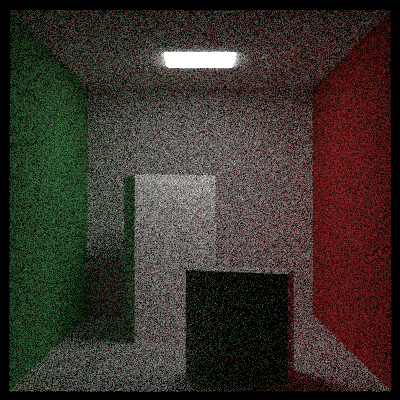
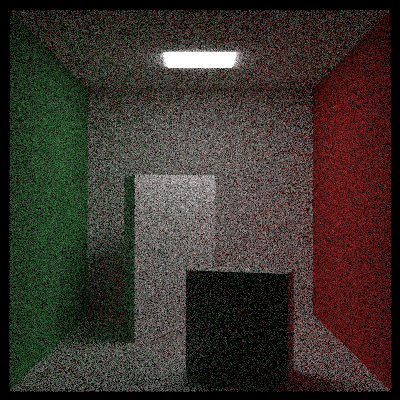
a thick fog sets in Inaba

diff --git a/examples/final_scene.rs b/examples/final_scene.rs
@@ -1,0 +1,118 @@
+use path_tracer::*;
+use path_tracer::material::*;
+use path_tracer::hittable::*;
+use rand::{Rng, thread_rng, distributions::Uniform, distributions::Distribution};
+
+const WIDTH: u32 = 600;
+const HEIGHT: u32 = 600;
+const SAMPLES: u64 = 100;
+const TIME_MIN: f32 = 0.;
+const TIME_MAX: f32 = 1.;
+
+fn main() -> Result<(), image::ImageError> {
+    let mut rng = rand::thread_rng();
+    let mut world = Vec::<Arc<dyn hittable::Hittable>>::new();
+    
+    let ground_material = Arc::new(Lambertian::new(Color::new(0.48, 0.83, 0.53)));
+    
+    let boxes_per_side = 20;
+    for i in 0..boxes_per_side {
+        for j in 0..boxes_per_side {
+            let w = 100.0;
+            let x0 = -1000.0 + i as f64 * w;
+            let z0 = -1000.0 + j as f64 * w;
+            let y0 = 0.0;
+            let x1 = x0 + w;
+            let y1 = rng.gen_range(1.0..101.0);
+            let z1 = z0 + w;
+
+            let box_min = Vec3A::new(x0 as f32, y0 as f32, z0 as f32);
+            let box_max = Vec3A::new(x1 as f32, y1 as f32, z1 as f32);
+            let b = Arc::new(Box::new(box_min, box_max, ground_material.clone()));
+            world.push(b);
+        }
+    }
+
+    // Light
+    let light_material = Arc::new(DiffuseLight::new(Color::splat(7.0)));
+    let light_quad = Arc::new(Quad::new(
+        Vec3A::new(123.0, 554.0, 147.0),
+        Vec3A::new(300.0, 0.0, 0.0),
+        Vec3A::new(0.0, 0.0, 265.0),
+        light_material,
+    ));
+    world.push(light_quad);
+
+    let moving_sphere_material = Arc::new(Lambertian::new(Color::new(0.7, 0.3, 0.1)));
+    let center_start = Vec3A::new(400.0, 400.0, 200.0);
+    let center_end = center_start + Vec3A::new(30.0, 0.0, 0.0);
+    let moving_sphere = Arc::new(Sphere::new_moving(50.0, center_start, moving_sphere_material, TIME_MAX, TIME_MIN, center_end));
+    world.push(moving_sphere);
+
+    let glass_sphere = Arc::new(Sphere::new(50.0, Vec3A::new(260.0, 150.0, 45.0), Arc::new(Dielectric::new(1.5))));
+    world.push(glass_sphere);
+
+    let metal_sphere = Arc::new(Sphere::new(50.0, Vec3A::new(0.0, 150.0, 145.0), Arc::new(Metal::new(Color::new(0.8, 0.8, 0.9), 0.0))));
+    world.push(metal_sphere);
+
+    // Medium spheres
+    let boundary = Arc::new(Sphere::new(70.0, Vec3A::new(360.0, 150.0, 145.0), Arc::new(Dielectric::new(1.5))));
+    world.push(boundary.clone());
+    world.push(Arc::new(Medium::new(
+        boundary,
+        0.2,
+        Arc::new(Isotropic::new(Color::new(0.2, 0.4, 0.9))),
+    )));
+
+    let boundary_large = Arc::new(Sphere::new(5000.0, Vec3A::new(0.0, 0.0, 0.0), Arc::new(Dielectric::new(1.5))));
+    world.push(Arc::new(Medium::new(
+        boundary_large,
+        0.0001,
+        Arc::new(Isotropic::new(Color::new(1.0, 1.0, 1.0))),
+    )));
+
+    // Textured sphere
+    let emat = Arc::new(Lambertian { albedo: Arc::new(texture::Image::new("textures/earthmap.jpg"))});
+    let earth_sphere = Arc::new(Sphere::new(100.0, Vec3A::new(400.0, 200.0, 400.0), emat));
+    world.push(earth_sphere);
+    
+    let mut boxes = Vec::new();
+    let mut rng = thread_rng();
+    let random = Uniform::new(0.0, 165.0_f32);
+    
+    // Cloud of smaller spheres
+    let ns = 1000;
+    let white = Arc::new(Lambertian::new(Color::new(0.73, 0.73, 0.73)));
+    for _ in 0..ns {
+        boxes.push(Arc::new(Sphere::new(10.0, Vec3A::new(-100.0, 270.0, 395.0) + Vec3A::new(random.sample(&mut rng), random.sample(&mut rng), random.sample(&mut rng)), white.clone())));
+    }
+    
+    let boxes = boxes.into_iter()
+        .map(|b| Arc::new(Transform::new(b.clone(), Quat::from_rotation_y(15.0_f32.to_radians()), b.center(0.))) as Arc<dyn Hittable>);
+    
+    world.extend(boxes);
+
+    let aspect_ratio = WIDTH as f32 / HEIGHT as f32;
+    let lookfrom = Vec3A::new(478.0, 278.0, -600.0);
+    let lookat = Vec3A::new(278.0, 278.0, 0.0);
+    let vup = Vec3A::new(0.0, 1.0, 0.0);
+    let vfov = 40.0;
+    let aperture = 0.0;
+    let focus_dist = 10.0;
+
+    let camera = Camera::new(
+        lookfrom,
+        lookat,
+        vup,
+        vfov,
+        aspect_ratio,
+        aperture,
+        focus_dist,
+        TIME_MIN,
+        TIME_MAX,
+    );
+
+    Render::new(WIDTH, HEIGHT, SAMPLES, Scene::new(&world, TIME_MIN, TIME_MAX, Color::ZERO), camera)
+        .to_image()
+        .save("examples/final_scene.png")
+}

diff --git a/examples/cornell_box.rs b/examples/cornell_box.rs
@@ -15,29 +15,27 @@ fn main() -> Result<(), image::ImageError> {
     let box1_max = Vec3A::new(430., 330., 460.);
     let box1_center = (box1_min + box1_max) * 0.5;
     let box1_rot = Quat::from_rotation_y(15.0_f32.to_radians());
-    let box1= hittable::Quad::new_box(box1_min, box1_max, white.clone()).into_iter()
-        .map::<Arc<dyn hittable::Hittable>, _>(|r|
-            Arc::new(hittable::Transform::new(Arc::new(r), box1_rot, box1_center)));
+    let box1= hittable::Box::new(box1_min, box1_max, white.clone());
+    let box1 = Arc::new(hittable::Transform::new(Arc::new(box1), box1_rot, box1_center));
 
     let box2_min = Vec3A::new(130., 0., 65.);
     let box2_max = Vec3A::new(295., 165., 130.);
     let box2_center = (box2_min + box2_max) * 0.5;
     let box2_rot = Quat::from_rotation_y((-18.0_f32).to_radians());
-    let box2 = hittable::Quad::new_box(box2_min, box2_max, white.clone()).into_iter()
-        .map::<Arc<dyn hittable::Hittable>, _>(|r|
-            Arc::new(hittable::Transform::new(Arc::new(r), box2_rot, box2_center)));
+    let box2= hittable::Box::new(box2_min, box2_max, white.clone());
+    let box2 = Arc::new(hittable::Transform::new(Arc::new(box2), box2_rot, box2_center));
 
 
-    let mut hittables: Vec<Arc<dyn hittable::Hittable>> = vec![
+    let hittables: Vec<Arc<dyn hittable::Hittable>> = vec![
         Arc::new(hittable::Quad::new(Vec3A::new(555.0, 0.0, 0.0), Vec3A::new(0.0, 555.0, 0.0), Vec3A::new(0.0, 0.0, 555.0), green.clone())),
         Arc::new(hittable::Quad::new(Vec3A::new(0.0, 0.0, 0.0), Vec3A::new(0.0, 555.0, 0.0), Vec3A::new(0.0, 0.0, 555.0), red.clone())),
         Arc::new(hittable::Quad::new(Vec3A::new(343.0, 554.0, 332.0), Vec3A::new(-130.0, 0.0, 0.0), Vec3A::new(0.0, 0.0, -105.0), light.clone())),
         Arc::new(hittable::Quad::new(Vec3A::new(0.0, 0.0, 0.0), Vec3A::new(555.0, 0.0, 0.0), Vec3A::new(0.0, 0.0, 555.0), white.clone())),
         Arc::new(hittable::Quad::new(Vec3A::new(555.0, 555.0, 555.0), Vec3A::new(-555.0, 0.0, 0.0), Vec3A::new(0.0, 0.0, -555.0), white.clone())),
         Arc::new(hittable::Quad::new(Vec3A::new(0.0, 0.0, 555.0), Vec3A::new(555.0, 0.0, 0.0), Vec3A::new(0.0, 555.0, 0.0), white.clone())),
+        box1,
+        box2
     ];
-    hittables.extend(box1);
-    hittables.extend(box2);
 
 
     let scene = Scene::new(&hittables, TIME_MIN, TIME_MAX, Color::ZERO);

diff --git a/src/hittable/medium.rs b/src/hittable/medium.rs
@@ -1,0 +1,76 @@
+use crate::{Color, material::Isotropic};
+use super::prelude::*;
+
+pub struct Medium {
+    boundary: Arc<dyn Hittable>,
+    neg_inv_density: f32,
+    phase_function: Arc<dyn Material>,
+}
+
+impl Medium {
+    pub fn new(boundary: Arc<dyn Hittable>, d: f32, a: Arc<dyn Material>) -> Self {
+        Medium {
+            boundary,
+            neg_inv_density: -1.0 / d,
+            phase_function: a,
+        }
+    }
+
+    pub fn new_with_color(boundary: Arc<dyn Hittable>, d: f32, c: Color) -> Self {
+        let phase_function = Arc::new(Isotropic::new(c));
+        Medium {
+            boundary,
+            neg_inv_density: -1.0 / d,
+            phase_function,
+        }
+    }
+}
+
+impl Hittable for Medium {
+    fn hit(&self, ray: &Ray, time_min: f32, time_max: f32) -> Option<HitResult> {
+        let mut rng = rand::thread_rng();
+
+        let mut rec1 = self.boundary.hit(ray, f32::NEG_INFINITY, f32::INFINITY)?;
+        let mut rec2 = self.boundary.hit(ray, rec1.time + 0.0001, f32::INFINITY)?;
+
+        if rec1.time < time_min {
+            rec1.time = time_min;
+        }
+        if rec2.time > time_max {
+            rec2.time = time_max;
+        }
+
+        if rec1.time >= rec2.time {
+            return None;
+        }
+
+        if rec1.time < 0.0 {
+            rec1.time = 0.0;
+        }
+
+        let ray_length = ray.direction().length();
+        let distance_inside_boundary = (rec2.time - rec1.time) * ray_length;
+        let hit_distance = self.neg_inv_density * rng.gen::<f32>().ln();
+
+        if hit_distance > distance_inside_boundary {
+            return None;
+        }
+
+        let hit_time = rec1.time + hit_distance / ray_length;
+        let hit_point = ray.at(hit_time);
+
+        Some(HitResult {
+            time: hit_time,
+            point: hit_point,
+            normal: Vec3A::new(1.0, 0.0, 0.0),
+            material: Arc::downgrade(&self.phase_function),
+            u: 0.0,
+            v: 0.0,
+        })
+    }
+}
+impl Bounded for Medium {
+    fn bounding_box(&self, time_min: f32, time_max: f32) -> BoundingBox {
+        self.boundary.bounding_box(time_min, time_max)
+    }
+}

diff --git a/src/material/isotropic.rs b/src/material/isotropic.rs
@@ -1,0 +1,36 @@
+use super::prelude::*;
+
+pub struct Isotropic {
+    albedo: Arc<dyn Texture>,
+}
+
+impl Isotropic {
+    pub fn new(color: Color) -> Self {
+        Self {
+            albedo: Arc::new(SolidColor { color }),
+        }
+    }
+
+    pub fn new_with_texture(texture: Arc<dyn Texture>) -> Self {
+        Self {
+            albedo: texture,
+        }
+    }
+}
+
+impl Material for Isotropic {
+    fn scatter(
+        &self,
+        ray: &Ray,
+        hit_result: &HitResult,
+        rng: &RandomNumberGenerator,
+    ) -> Option<Scatter> {
+        let scattered_direction = rng.in_unit_sphere().normalize();
+        let scattered = Ray::new(hit_result.point, scattered_direction, ray.time());
+        let attenuation = self.albedo.color(&hit_result.point, hit_result.u, hit_result.v);
+        Some(Scatter {
+            ray: scattered,
+            attenuation,
+        })
+    }
+}

diff --git a/src/hittable/quad.rs b/src/hittable/quad.rs
@@ -104,3 +104,31 @@ impl Bounded for Quad {
         BoundingBox { minimum: min, maximum: max }
     }
 }
+
+pub struct Box {
+    sides: Vec<Quad>,
+    bb: BoundingBox
+}
+
+impl Box {
+    pub fn new(min: Vec3A, max: Vec3A, material: Arc<dyn Material>) -> Self {
+        Box {
+            sides: Quad::new_box(min, max, material),
+            bb: BoundingBox { minimum: min, maximum: max }
+        }
+    }
+}
+
+impl Hittable for Box {
+    fn hit(&self, ray: &Ray, time_min: f32, time_max: f32) -> Option<HitResult> {
+        self.sides.iter()
+            .filter_map(|side| side.hit(ray, time_min, time_max))
+            .min_by(|hit1, hit2| hit1.time.partial_cmp(&hit2.time).unwrap())
+    }
+}
+
+impl Bounded for Box {
+    fn bounding_box(&self, _: f32, _: f32) -> BoundingBox {
+        self.bb
+    }
+}

diff --git a/src/scene.rs b/src/scene.rs
@@ -47,7 +47,7 @@ impl Scene {
             Some(hit_result) => {
                 let material = hit_result.material.upgrade().unwrap();
                 let HitResult { u, v, point, .. } = hit_result;
-                let emitted = material.emitted(&point, &u, &v);
+                let emitted = material.emitted(&point, u, v);
                 match material.scatter(ray, &hit_result, rng) {
                     Some(Scatter { ray, attenuation }) => {
                         emitted + attenuation * self.color(&ray, depth - 1, rng, time_min, time_max)

diff --git a/src/material/mod.rs b/src/material/mod.rs
@@ -19,7 +19,7 @@ pub trait Material: Send + Sync {
         rng: &RandomNumberGenerator,
     ) -> Option<Scatter>;
 
-    fn emitted(&self, _point: &Vec3A, _u: &f32, _v: &f32) -> Color {
+    fn emitted(&self, _point: &Vec3A, _u: f32, _v: f32) -> Color {
         Color::ZERO
     }
 }
@@ -39,6 +39,10 @@ mod metal;
 pub use metal::Metal;
 
 mod diffuse_light;
+
+mod isotropic;
+pub use isotropic::Isotropic;
+
 pub use diffuse_light::DiffuseLight;
 
 pub fn refract(uv: Vec3A, normal: Vec3A, refraction_ratio: f32) -> Vec3A {

diff --git a/src/texture/checker.rs b/src/texture/checker.rs
@@ -8,7 +8,7 @@ pub struct Checker {
 }
 
 impl Texture for Checker {
-    fn color(&self, point: &Vec3A, u: &f32, v: &f32) -> Color {
+    fn color(&self, point: &Vec3A, u: f32, v: f32) -> Color {
         match (10. * point.x).sin() * (10. * point.y).sin() * (10. * point.z).sin() < 0. {
             true => self.odd.color(point, u, v),
             false => self.even.color(point, u, v),

diff --git a/src/material/lambertian.rs b/src/material/lambertian.rs
@@ -19,7 +19,7 @@ impl Material for Lambertian {
     ) -> Option<Scatter> {
         let direction = rng.in_hemishphere(normal);
         let ray = Ray::new(*point, direction, ray.time());
-        let attenuation = self.albedo.color(point, u, v);
+        let attenuation = self.albedo.color(point, *u, *v);
         Some(Scatter { ray, attenuation })
     }
 }

diff --git a/src/texture/image.rs b/src/texture/image.rs
@@ -22,7 +22,7 @@ impl Image {
 }
 
 impl Texture for Image {
-    fn color(&self, _point: &Vec3A, u: &f32, v: &f32) -> Color {
+    fn color(&self, _point: &Vec3A, u: f32, v: f32) -> Color {
         let (width, height) = (self.width as usize, self.height as usize);
         let u = u.clamp(0., 1.);
         let v = 1. - v.clamp(0., 1.);

diff --git a/src/material/diffuse_light.rs b/src/material/diffuse_light.rs
@@ -22,7 +22,7 @@ impl Material for DiffuseLight {
         None
     }
 
-    fn emitted(&self, point: &Vec3A, u: &f32, v: &f32) -> Color {
-        self.emit.color(point, u, v)
+    fn emitted(&self, _point: &Vec3A, _u: f32, _v: f32) -> Color {
+        self.emit.color(_point, _u, _v)
     }
 }

diff --git a/src/material/dielectric.rs b/src/material/dielectric.rs
@@ -5,6 +5,12 @@ pub struct Dielectric {
     pub refractive_index: f32,
 }
 
+impl Dielectric {
+    pub fn new(refractive_index: f32) -> Self {
+        Self { refractive_index }
+    }
+}
+
 impl Material for Dielectric {
     fn scatter(
         &self,
